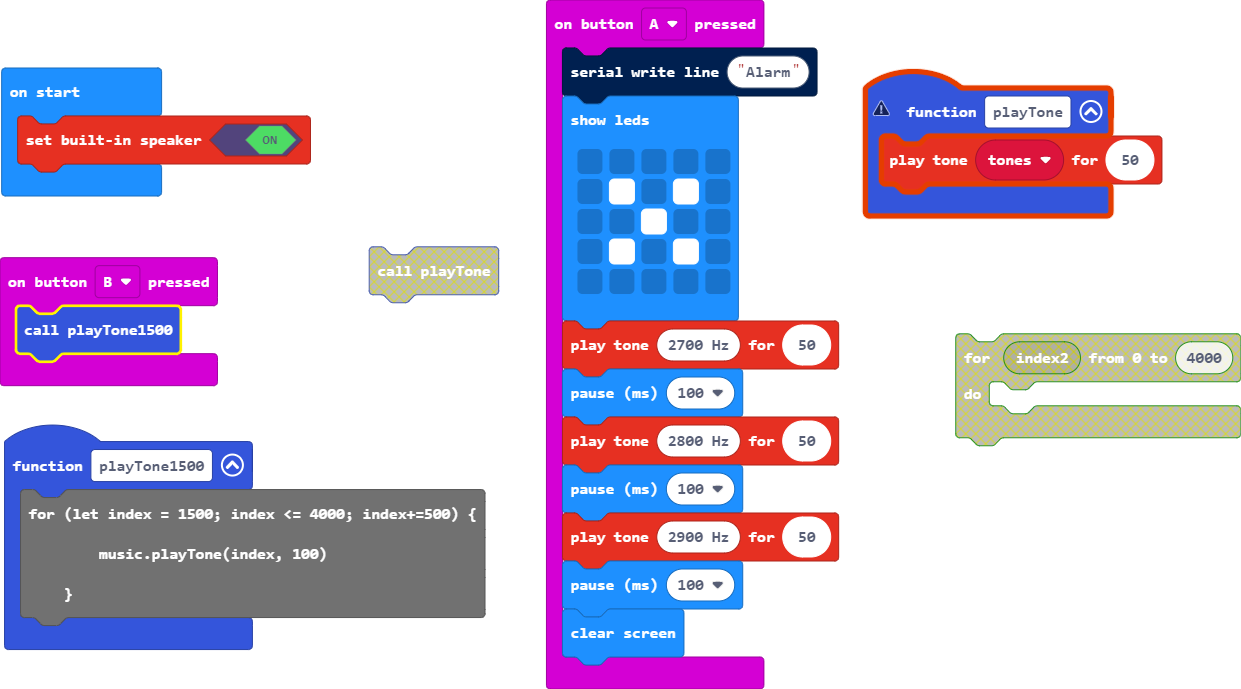
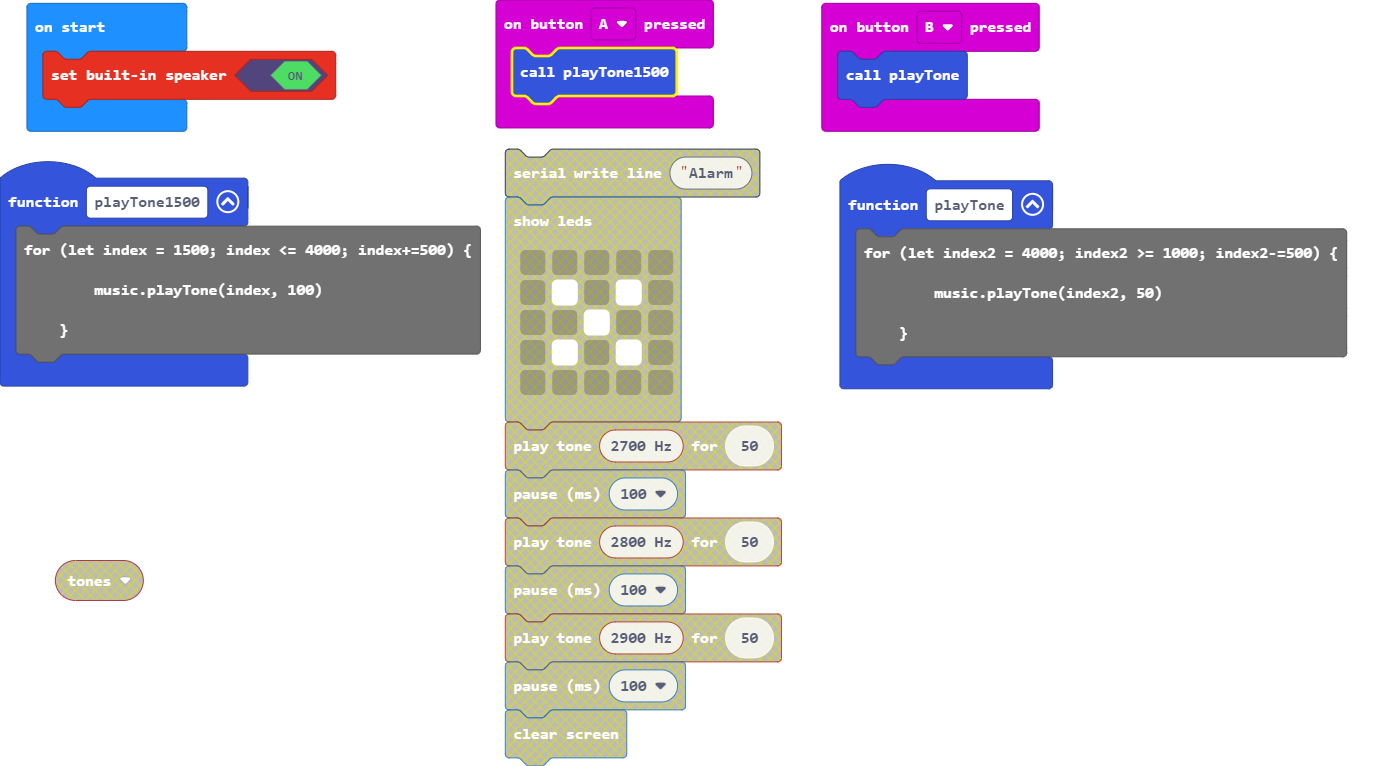
Incremented

diff --git a/main.ts b/main.ts
@@ -1,22 +1,8 @@
 input.onButtonPressed(Button.A, function () {
-    serial.writeLine("Alarm")
-    basic.showLeds(`
-        . . . . .
-        . # . # .
-        . . # . .
-        . # . # .
-        . . . . .
-        `)
-    music.playTone(2700, 50)
-    basic.pause(100)
-    music.playTone(2800, 50)
-    basic.pause(100)
-    music.playTone(2900, 50)
-    basic.pause(100)
-    basic.clearScreen()
+    playTone1500()
 })
 input.onButtonPressed(Button.B, function () {
-    playTone1500()
+    playTone()
 })
 function playTone1500 () {
     for (let index = 1500; index <= 4000; index+=500) {
@@ -24,7 +10,8 @@ function playTone1500 () {
     }
 }
 function playTone () {
-    let tones: number = []
-    music.playTone(tones, 50)
+    for (let index2 = 4000; index2 >= 1000; index2-=500) {
+        music.playTone(index2, 50)
+    }
 }
 music.setBuiltInSpeakerEnabled(true)
